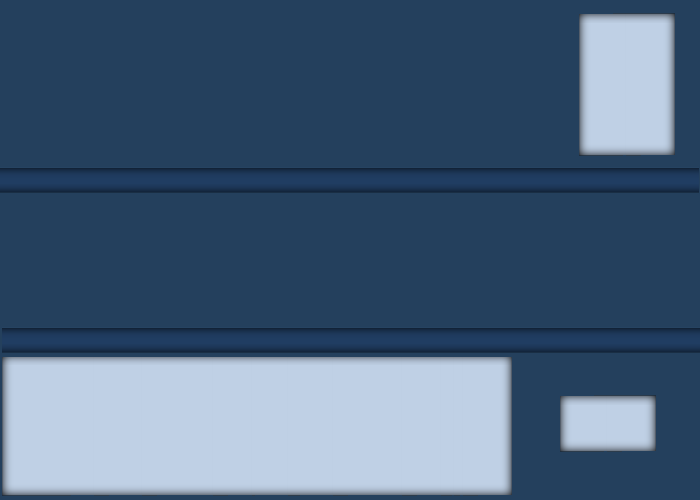
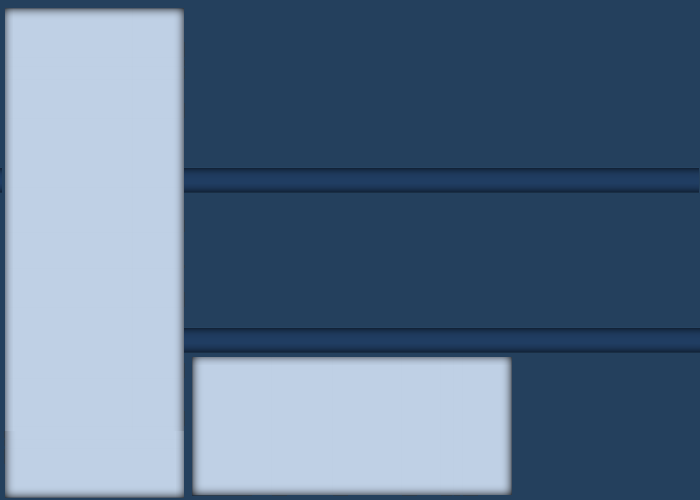
Smaller size of skin

Changed region(s): [[0.0, 0.0, 0.3, 1.0], [0.81, 0.03, 0.99, 0.33], [0.78, 0.78, 0.96, 0.9]]

diff --git a/core/src/com/mygdx/deleter/screens/MainScreen.java b/core/src/com/mygdx/deleter/screens/MainScreen.java
@@ -21,186 +21,186 @@ import com.badlogic.gdx.scenes.scene2d.ui.Skin;
 import com.badlogic.gdx.scenes.scene2d.ui.Table;
 import com.mygdx.deleter.DeleterProject;
 
-
 public class MainScreen extends AbstractScreen {
 
-    static Skin skin;
+	static Skin skin;
 
-    Image imgBackground;
+	Image imgBackground;
 
-    //Tables
-    private boolean tableDebug = false;
+	// Tables
+	private boolean tableDebug = false;
 
-    private Table tableMain;
-    private Table tableInner;
-    private static Table tableScrollable;
-    private static ScrollPane scrollPane;
+	private Table tableMain;
+	private Table tableInner;
+	private static Table tableScrollable;
+	private static ScrollPane scrollPane;
 
-    public boolean filesLoaded;
-    public static boolean textLoaded;
-   private static List<String> fotoListFromTXT;
-    private static List<String> inputFilesList;
+	public boolean filesLoaded;
+	public static boolean textLoaded;
+	private static List<String> fotoListFromTXT;
+	private static List<String> inputFilesList;
 
-    public MainScreen(DeleterProject dp) {
-        super();
-        init();
-       // test();
-    }
-
-    private void test() {
-        for (int i = 1; i < 20; i++) {
-            addMessage("DCM000" + i);
-        }
-    }
-
-    protected void init() {
-    	inputFilesList = new ArrayList<String>();
-        initAtlasSkin();
-        initBackground();
-        initTables();
-      //  initDragnDrop(); // potrzebuje przycisk wlaczajacy to
-        
-    }
-    public static void initDragNDrop(Lwjgl3ApplicationConfiguration config) {
-
-    	config.setWindowListener(new Lwjgl3WindowAdapter(){
-    	@Override
-    	public void filesDropped(String[] files) {
-    		for(String file : files) {	
-    			Gdx.app.log("FileDropped: ", file);
-    			
-    		//If found TXT file with list
-    			if(file.toString().contains(".txt")){
-    			 addMessage(".TXT file found!");
-    			 readTxtFile(file);
-    			 textLoaded = true;
-    			}
-    		//Add each drop to arrayList
-    			inputFilesList.add(file);
-    		}
-    		//TODO
-    		makeTXTFile(inputFilesList);
-    	}
-    	});
+	public MainScreen(DeleterProject dp) {
+		super();
+		init();
+		// test();
 	}
 
-    private static void makeTXTFile(List<String> name) {
-        FileWriter writer = null;
-        try {
-            writer = new FileWriter("output.txt");
-            for(String str: name) {
-                writer.write(str);
-                writer.write("\r\n");
-            }
-            addMessage("output.txt file made");
-            writer.close();
-        } catch (IOException e) {
-            e.printStackTrace();
-        }
+	private void test() {
+		for (int i = 1; i < 20; i++) {
+			addMessage("DCM000" + i);
+		}
+	}
 
-    }
+	protected void init() {
+		inputFilesList = new ArrayList<String>();
+		initAtlasSkin();
+		initBackground();
+		initTables();
+		// initDragnDrop(); // potrzebuje przycisk wlaczajacy to
 
-    private static void readTxtFile(String yourFile) {
-        fotoListFromTXT = new ArrayList<String>();
-        try {
-            FileInputStream fstream_school = new FileInputStream(yourFile);
-            DataInputStream data_input = new DataInputStream(fstream_school);
-            BufferedReader buffer = new BufferedReader(new InputStreamReader(data_input));
-            String str_line;
-            while ((str_line = buffer.readLine()) != null)
-            {
-                str_line = str_line.trim();
-                if ((str_line.length()!=0))
-                {
-                    addMessage("IMG: " + str_line);
-                    fotoListFromTXT.add(str_line);
-                }
-            }
-            for(String listaZdjec : fotoListFromTXT){
-            	Gdx.app.log("from TXT: ",listaZdjec);
-            }
-            buffer.close();
-        } catch (IOException e) {
-            e.printStackTrace();
-        }
-       
-    }
+	}
 
-    private static void addMessage(String message) {
-        tableScrollable.add(new Label(message, skin)).left();
-        tableScrollable.row();
-        scrollPane.layout();
-        scrollPane.setScrollPercentY(100);
-        scrollPane.setScrollPercentX(0);
-        scrollPane.updateVisualScroll();
-    }
+	public static void initDragNDrop(Lwjgl3ApplicationConfiguration config) {
 
-    private void initTables() {
-        tableMain = new Table();
-        tableMain.setFillParent(true);
-        tableMain.setDebug(tableDebug);
-        tableMain.top().left().padTop(10f);
+		config.setWindowListener(new Lwjgl3WindowAdapter() {
+			@Override
+			public void filesDropped(String[] files) {
+				for (String file : files) {
+					Gdx.app.log("FileDropped: ", file);
 
+					// If found TXT file with list
+					if (file.toString().contains(".txt")) {
+						addMessage(".TXT file found!");
+						readTxtFile(file);
+						textLoaded = true;
+					}
+					// Add each drop to arrayList
+					inputFilesList.add(file);
+				}
+				// TODO przerzucic do przycisku
+				makeTXTFile(inputFilesList);
+			}
+		});
+	}
 
-        tableInner = new Table(skin);
-        tableInner.setDebug(tableDebug);
-        tableInner.top();
-        ///TOP
+	private static void makeTXTFile(List<String> name) {
+		FileWriter writer = null;
+		try {
+			writer = new FileWriter("PhotoList.txt");
+			for (String str : name) {
+				writer.write(str);
+				writer.write("\r\n");
+			}
+			addMessage("PhotoList.txt file made");
+			writer.close();
+		} catch (IOException e) {
+			e.printStackTrace();
+		}
 
-        tableInner.add().width(230f).height(145f).padLeft(10f);
-        tableInner.add().width(230f).height(145f).padLeft(45f);
-        tableInner.add(new Image(new Texture("buttons/horizontalRectangleButton.png"))).width(95f).height(145f).padLeft(65f);
-        tableInner.row();
-        //MID
-        tableInner.add().expandX().height(140f).colspan(3).padTop(35f);
-        tableInner.row();
-        // ScrollingTable
-        tableScrollable = new Table();
-        tableScrollable.setDebug(false);
-        tableScrollable.top().left();
+	}
 
-        scrollPane = new ScrollPane(tableScrollable);
-        scrollPane.setOverscroll(false, false);
+	private static void readTxtFile(String yourFile) {
+		fotoListFromTXT = new ArrayList<String>();
+		try {
+			FileInputStream fstream_school = new FileInputStream(yourFile);
+			DataInputStream data_input = new DataInputStream(fstream_school);
+			BufferedReader buffer = new BufferedReader(new InputStreamReader(data_input));
+			String str_line;
+			while ((str_line = buffer.readLine()) != null) {
+				str_line = str_line.trim();
+				if ((str_line.length() != 0)) {
+					addMessage("IMG: " + str_line);
+					fotoListFromTXT.add(str_line);
+				}
+			}
+			for (String listaZdjec : fotoListFromTXT) {
+				Gdx.app.log("from TXT: ", listaZdjec);
+			}
+			buffer.close();
+		} catch (IOException e) {
+			e.printStackTrace();
+		}
 
-        //BOT
-        tableInner.add(scrollPane).width(505f).height(135f).colspan(2).padTop(28f);
-        tableInner.add(new Image(new Texture("buttons/smallButton.png"))).width(100f).height(55f).padTop(28f).padLeft(30f); //
+	}
 
-        tableMain.add(tableInner);
-        stage.addActor(tableMain);
-    }
+	private static void addMessage(String message) {
+		skin.getFont("default-font").getData().setScale(0.8f);
+		skin.getFont("default-font").setColor(0, 0, 0, 1);
+		tableScrollable.add(new Label(message, skin)).left();
+		tableScrollable.row();
+		scrollPane.layout();
+		scrollPane.setScrollPercentY(100);
+		scrollPane.setScrollPercentX(0);
+		scrollPane.updateVisualScroll(); 
+		
+	}
 
+	private void initTables() {
+		tableMain = new Table();
+		tableMain.setFillParent(true);
+		tableMain.setDebug(tableDebug);
+		tableMain.top().left().padTop(10f);
 
-    private void initAtlasSkin() {
-        skin = new Skin(Gdx.files.internal("uiskin.json"),
-                new TextureAtlas(Gdx.files.internal("uiskin.atlas")));
-    }
+		tableInner = new Table(skin);
+		tableInner.setDebug(tableDebug);
+		tableInner.top();
+		/// TOP
 
-    private void initBackground() {
-        imgBackground = new Image(new Texture("Background.png"));
-        stage.addActor(imgBackground);
-    }
+		tableInner.add().width(230f).height(145f).padLeft(10f);
+		tableInner.add().width(230f).height(145f).padLeft(45f);
+		tableInner.add(new Image(new Texture("buttons/horizontalRectangleButton.png"))).width(95f).height(145f)
+				.padLeft(65f);
+		tableInner.row();
+		// MID
+		tableInner.add().expandX().height(140f).colspan(3).padTop(35f);
+		tableInner.row();
+		// ScrollingTable
+		tableScrollable = new Table();
+		tableScrollable.setDebug(false);
+		tableScrollable.top().left();
 
-    @Override
-    public void show() {
-    }
+		scrollPane = new ScrollPane(tableScrollable);
+		scrollPane.setOverscroll(false, false);
 
-    @Override
-    public void render(float delta) {
-        super.render(delta);
+		// BOT
+		tableInner.add(scrollPane).width(505f).height(135f).colspan(2).padTop(28f);
+		tableInner.add(new Image(new Texture("buttons/smallButton.png"))).width(100f).height(55f).padTop(28f)
+				.padLeft(30f); //
 
-        batch.begin();
-        stage.act();
+		tableMain.add(tableInner);
+		stage.addActor(tableMain);
+	}
 
-        stage.draw();
+	private void initAtlasSkin() {
+		skin = new Skin(Gdx.files.internal("uiskin.json"), new TextureAtlas(Gdx.files.internal("uiskin.atlas")));
+	}
 
-        batch.end();
+	private void initBackground() {
+		imgBackground = new Image(new Texture("Background.png"));
+		stage.addActor(imgBackground);
+	}
 
-    }
+	@Override
+	public void show() {
+	}
 
-    @Override
-    public void dispose() {
-        super.dispose();
-        stage.dispose();
-    }
+	@Override
+	public void render(float delta) {
+		super.render(delta);
+
+		batch.begin();
+		stage.act();
+
+		stage.draw();
+
+		batch.end();
+
+	}
+
+	@Override
+	public void dispose() {
+		super.dispose();
+		stage.dispose();
+	}
 }
